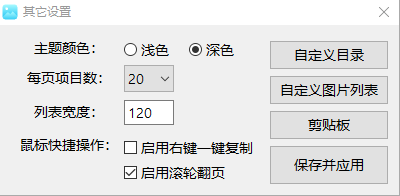
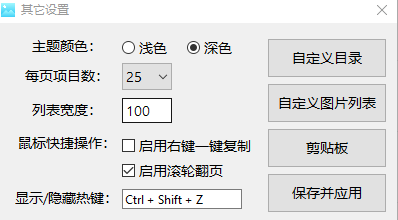
Update Code to v 0.6.0

diff --git a/README.md b/README.md
@@ -1,15 +1,12 @@
 # QuickViewPic
-A small tool to view images quickly.
-
+A small tool to view images quickly.  
 一个简单的快速看图小工具。
 
-程序灵感来自[@hamoyy](https://meta.appinn.net/t/topic/38641)，全部使用[aardio](https://www.aardio.com)编写。
+程序灵感来自[@hamoyy](https://meta.appinn.net/t/topic/38641)，全部使用[aardio](https://www.aardio.com)编写。  
+单文件打包编译，体积仅约 1.5MB ，绿色便携。
 
-作者邮箱：xenon2333@qq.com
-
-下载地址：[Release](https://github.com/xenon2333/QuickViewPic/releases) / [钛盘](https://tmp.link/room/646f1729d9aa7)
-
-[帮助文档](https://blog.xenon2333.com/posts/2023/5.html)
+作者邮箱：xenon2333@qq.com  
+下载地址：[Release](https://github.com/xenon2333/QuickViewPic/releases)
 
 ## 使用场景
 - 需要重复快速查看指定图片，如查询尺码表。
@@ -17,35 +14,33 @@ A small tool to view images quickly.
 - 快速浏览本地保存的表情包，并一键复制到剪贴板，用于聊天工具中。
 
 ## 基本介绍
-启动程序后会显示一个**悬浮按钮**，将按钮**拖拽**至屏幕边缘会自动吸附，此时将鼠标移入按钮则会显示图片列表。
-
-上下移动鼠标可选择项目，同时会在一旁自动显示图片。
-
+启动程序后会显示一个**悬浮按钮**，将按钮**拖拽**至屏幕边缘会自动吸附，此时将鼠标移入按钮则会显示图片列表。  
 最上方的按钮右键点击即可弹出菜单，可进行设置或退出操作。
 
-支持右键点击列表项、一键复制当前选中项到剪贴板。
+在图片列表中，上下移动鼠标可选择项目，同时会在一旁自动显示图片。  
+可设置每一页的项目数，并且支持滚轮翻页。  
+支持右键点击列表项、一键复制当前选中项到剪贴板。  
+左键双击列表项可将当前图片固定在屏幕上，不再自动隐藏。再次双击任意项（或者右键点击图片区域）解除固定。  
+被固定的图片可被拖动到任意位置，但不支持缩放。（有缩放需求建议移步Pixpin的贴图功能）
 
-可设置每一页的项目数，并且支持滚轮翻页。
-
-设置将在程序退出时自动保存至%LocalAppData%目录下的QuickViewPic\config.cfg（剪贴板数据除外）。
+设置将在程序退出时自动保存至`%LocalAppData%`目录下的`QuickViewPic\config.cfg`（剪贴板数据除外）。
+> 若程序当前目录下存在`config.cfg`文件，则将其作为配置读取。（便携化）
 
 ## 模式
 ### 默认
-自动从程序启动目录读取图片。
-
-**支持的图片格式**：**jpg**、**jpeg**、**png**、**bmp**、**gif**。（下同）
+自动从程序启动目录读取图片。  
+支持的图片格式：**jpg**、**jpeg**、**png**、**bmp**、**gif**。（下同）
 
 ### 自定义目录
 由用户指定图片根目录，程序会自动扫描含有图片的子目录并供用户选择。程序会从用户选择的目录读取图片。
 ### 自定义图片列表
 由用户自行指定图片的路径及显示顺序。
 ### 剪贴板
-从剪贴板中导入位图并显示。
-
+从剪贴板中导入位图并显示。  
 支持剪贴板监视及自动保存功能。
 
 获取位图的方式包括但不限于：
-- QQ截图工具
+- 截图工具
 - 浏览器页面复制
 
 可反复导入多张位图。
